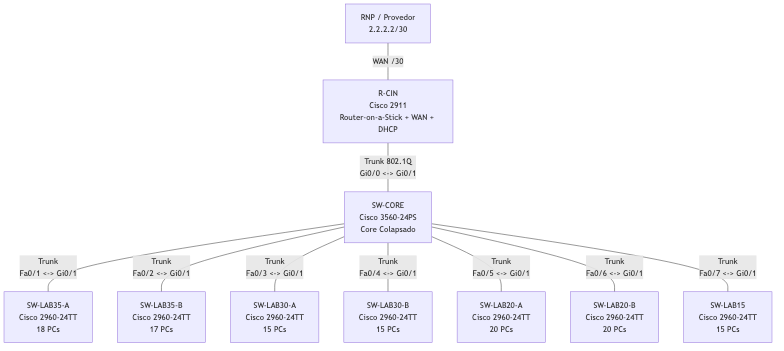
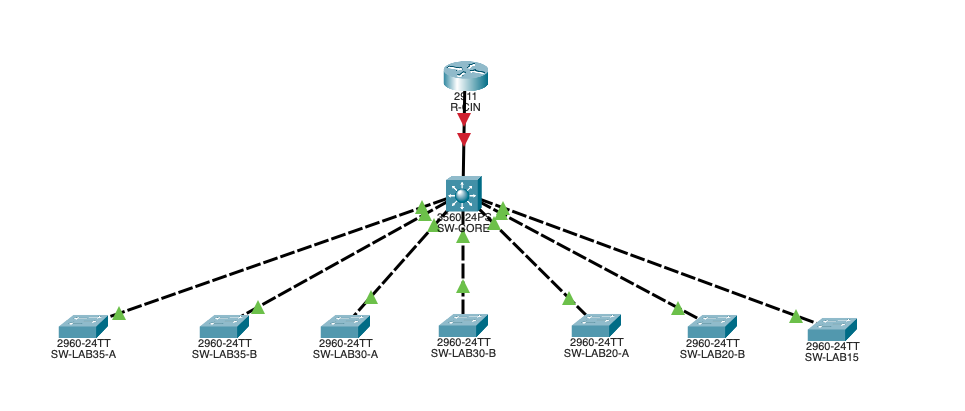
adjust deliverables for e1

diff --git a/deliverables/e1_design_fisico_topologia.md b/deliverables/e1_design_fisico_topologia.md
@@ -11,35 +11,7 @@ Esta entrega documenta o desenho físico inicial da rede, a alocação dos equip
 
 O desenho foi planejado para suportar cinco laboratórios simulados, cada um associado a uma VLAN própria nas próximas entregas. A topologia usa um modelo hierárquico com **Core Colapsado**, no qual o switch core concentra as funções de distribuição e agregação.
 
-## 2. Visão Geral da Topologia
-
-```mermaid
-flowchart TB
-    RNP["RNP / Provedor<br/>2.2.2.2/30"]
-    RCIN["R-CIN<br/>Cisco 2911<br/>Router-on-a-Stick + WAN + DHCP"]
-    CORE["SW-CORE<br/>Cisco 3560-24PS<br/>Core Colapsado"]
-
-    SWA1["SW-LAB35-A<br/>Cisco 2960-24TT<br/>18 PCs"]
-    SWA2["SW-LAB35-B<br/>Cisco 2960-24TT<br/>17 PCs"]
-    SWB1["SW-LAB30-A<br/>Cisco 2960-24TT<br/>15 PCs"]
-    SWB2["SW-LAB30-B<br/>Cisco 2960-24TT<br/>15 PCs"]
-    SWC["SW-LAB20-A<br/>Cisco 2960-24TT<br/>20 PCs"]
-    SWD["SW-LAB20-B<br/>Cisco 2960-24TT<br/>20 PCs"]
-    SWE["SW-LAB15<br/>Cisco 2960-24TT<br/>15 PCs"]
-
-    RNP ---|"WAN /30"| RCIN
-    RCIN ---|"Trunk 802.1Q<br/>Gi0/0 <-> Gi0/1"| CORE
-
-    CORE ---|"Trunk<br/>Fa0/1 <-> Gi0/1"| SWA1
-    CORE ---|"Trunk<br/>Fa0/2 <-> Gi0/1"| SWA2
-    CORE ---|"Trunk<br/>Fa0/3 <-> Gi0/1"| SWB1
-    CORE ---|"Trunk<br/>Fa0/4 <-> Gi0/1"| SWB2
-    CORE ---|"Trunk<br/>Fa0/5 <-> Gi0/1"| SWC
-    CORE ---|"Trunk<br/>Fa0/6 <-> Gi0/1"| SWD
-    CORE ---|"Trunk<br/>Fa0/7 <-> Gi0/1"| SWE
-```
-
-## 3. Equipamentos Utilizados
+## 2. Equipamentos Utilizados
 
 | Equipamento | Modelo | Qtd | Função na Topologia | Conexões |
 | --- | --- | ---: | --- | --- |
@@ -48,7 +20,7 @@ flowchart TB
 | Switches de Acesso | Cisco 2960-24TT | 7 | Conexão dos hosts, isolamento por VLAN e encaminhamento ao core via trunk | Gi0/1 -> SW-CORE; Fa0/x -> PCs |
 | PCs | PC | 120 | Dispositivos finais dos laboratórios simulados | Placas FastEthernet -> portas Access dos switches |
 
-## 4. Justificativa da Quantidade de Switches de Acesso
+## 3. Justificativa da Quantidade de Switches de Acesso
 
 Cada switch Cisco 2960-24TT possui 24 portas FastEthernet para hosts e portas GigabitEthernet para uplink. Como o projeto deve acomodar laboratórios de 35, 30, 20, 20 e 15 hosts, a distribuição mínima racional é:
 
@@ -63,7 +35,7 @@ Cada switch Cisco 2960-24TT possui 24 portas FastEthernet para hosts e portas Gi
 
 Essa distribuição respeita a capacidade física dos switches, evita concentrar laboratórios grandes em equipamentos insuficientes e preserva organização lógica para as VLANs.
 
-## 5. Nomenclatura Proposta
+## 4. Nomenclatura Proposta
 
 | Nome | Dispositivo | Laboratório / Função |
 | --- | --- | --- |
@@ -77,9 +49,9 @@ Essa distribuição respeita a capacidade física dos switches, evita concentrar
 | SW-LAB20-B | Cisco 2960-24TT | Laboratório de 20 hosts |
 | SW-LAB15 | Cisco 2960-24TT | Laboratório de 15 hosts |
 
-## 6. Plano de Portas Trunk
+## 5. Plano de Portas Trunk
 
-As portas trunk devem transportar as VLANs dos laboratórios entre os switches de acesso, o switch core e o roteador. A numeração final das VLANs será formalizada na E3; para este desenho físico, considera-se uma VLAN por laboratório.
+As portas trunk devem transportar as VLANs dos laboratórios entre os switches de acesso, o switch core e o roteador. Para esta entrega, considera-se uma VLAN por laboratório.
 
 | Origem | Porta | Destino | Porta | Tipo | Observação |
 | --- | --- | --- | --- | --- | --- |
@@ -93,9 +65,9 @@ As portas trunk devem transportar as VLANs dos laboratórios entre os switches d
 | SW-CORE | Fa0/6 | SW-LAB20-B | Gi0/1 | Trunk | Transporta a VLAN do Lab 20-B |
 | SW-CORE | Fa0/7 | SW-LAB15 | Gi0/1 | Trunk | Transporta a VLAN do Lab 15 |
 
-## 7. Plano de Portas Access
+## 6. Plano de Portas Access
 
-As portas de acesso conectam os PCs de cada laboratorio. Cada grupo de portas deve ser associado a uma VLAN especifica na E3.
+As portas de acesso conectam os PCs de cada laboratório. Cada grupo de portas deve ser associado a uma VLAN específica na E3.
 
 | Switch de Acesso | Laboratório | Portas Access para PCs | Quantidade de PCs | Observação |
 | --- | --- | --- | ---: | --- |
@@ -107,36 +79,13 @@ As portas de acesso conectam os PCs de cada laboratorio. Cada grupo de portas de
 | SW-LAB20-B | Lab 20-B | Fa0/1-Fa0/20 | 20 | VLAN própria do laboratório |
 | SW-LAB15 | Lab 15 | Fa0/1-Fa0/15 | 15 | VLAN própria do laboratório |
 
-As portas FastEthernet restantes devem permanecer desligadas administrativamente até uso futuro, reduzindo risco de conexões indevidas.
+As portas FastEthernet restantes devem permanecer desligadas administrativamente até uso futuro.
 
-## 8. Racionalidade do Design
+## 7. Racionalidade do Design
 
 O desenho usa uma topologia em estrela hierárquica, com todos os switches de acesso conectados ao SW-CORE. Essa escolha simplifica o gerenciamento, facilita troubleshooting e permite que o tráfego entre VLANs seja encaminhado de forma centralizada pelo R-CIN.
 
-O switch core atua como ponto de agregação e não conecta PCs diretamente. Essa separação deixa clara a função de cada camada: os switches 2960 ficam responsáveis pela camada de acesso, enquanto o 3560 concentra os uplinks e distribui os trunks.
+O switch core atua como ponto de agregação e não conecta PCs diretamente. Os switches 2960 ficam responsáveis pela camada de acesso, enquanto o 3560 concentra os uplinks e distribui os trunks.
 
-Os laboratórios maiores foram divididos em dois switches porque excedem a capacidade prática de um único 2960-24TT para hosts. Os laboratórios de 20 e 15 hosts usam um switch cada, mantendo folga operacional e evitando equipamentos desnecessários.
+Os laboratórios maiores foram divididos em dois switches porque excedem a capacidade prática de um único 2960-24TT para hosts.
 
-## 9. Checklist para Montagem no Packet Tracer
-
-1. Inserir 1 roteador Cisco 2911 e nomear como `R-CIN`.
-2. Inserir 1 switch Cisco 3560-24PS e nomear como `SW-CORE`.
-3. Inserir 7 switches Cisco 2960-24TT e nomear conforme a tabela de nomenclatura.
-4. Conectar `R-CIN Gi0/0` em `SW-CORE Gi0/1`.
-5. Conectar `R-CIN Gi0/1` ao roteador/dispositivo da RNP.
-6. Conectar `SW-CORE Fa0/1-Fa0/7` aos uplinks `Gi0/1` dos switches de acesso.
-7. Conectar os 120 PCs nas portas access indicadas.
-8. Adicionar anotações visuais no Packet Tracer indicando quais links são trunk e quais portas são access.
-9. Capturar a tela final da topologia e anexar ao relatorio.
-
-## 10. Conclusão
-
-A topologia proposta é organizada, escalável para as próximas entregas e capaz de suportar as cinco VLANs exigidas pelo projeto. O uso de 7 switches de acesso é justificado pela quantidade de hosts em cada laboratório, principalmente nos laboratórios de 35 e 30 hosts, que precisam ser divididos fisicamente em dois switches cada.
-
-## 11. Artefatos Gerados
-
-| Arquivo | Finalidade |
-| --- | --- |
-| `deliverables/e1_topologia.pkt` | Arquivo Cisco Packet Tracer com os equipamentos físicos da topologia E1. |
-| `deliverables/e1_packet_tracer_topology.png` | Captura de tela da topologia montada no Cisco Packet Tracer. |
-| `deliverables/e1_topologia.mmd` | Diagrama Mermaid da mesma topologia para revisão textual. |